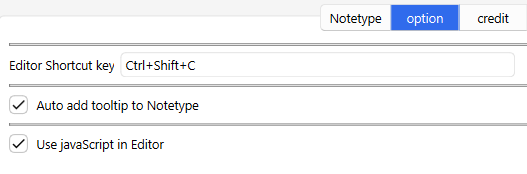
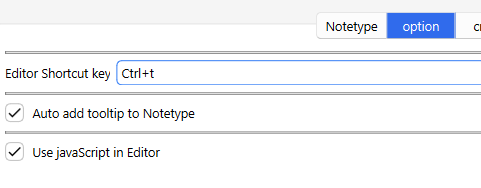
udpate

diff --git a/src/anki-tooltip.md b/src/anki-tooltip.md
@@ -1,16 +1,17 @@
 # 💬Anki Tooltip
 
-💬Anki Tooltip -  (Fixed by Shigeඞ)
+💬Anki Tooltip - Quick add Tooltip in the Editor (Fixed by Shigeඞ)
 
 <!-- **[AnkiWeb Page](https://ankiweb.net/shared/info/🟢) | Code : `🟢`** -->
-
 
 
 
 <!-- Customized -->
 [![banner_shigeyuki_2](https://github.com/shigeyukey/Pokemanki-Gold/assets/124401518/8408c164-e95c-4e40-98c1-393b03e04bcb)](https://www.reddit.com/user/Shige-yuki)
 
-This add-on is a fixed version for Anki25+ of the addon <a href="https://ankiweb.net/shared/info/1840818335" target="_blank">"Anki Tooltips"</a>, originally created by <a href="https://github.com/kleinerpirat" target="_blank">Matthias Metelka (kleinerpirat)</a> and credit goes to them.
+ Quick add Tooltip in the Editor (use tippy.js).
+
+This add-on is a Fixed and Enhanced version for Anki25+ of the addon <a href="https://ankiweb.net/shared/info/1840818335" target="_blank">"Anki Tooltips"</a>, originally created by <a href="https://github.com/kleinerpirat" target="_blank">Matthias Metelka (kleinerpirat)</a> and credit goes to them.
 
 
 ![AnkiTooltip](images/anki-tooltip/AnkiTooltip.gif)
@@ -23,11 +24,133 @@ This add-on is a fixed version for Anki25+ of the addon <a href="https://ankiweb
 #### Tooltip-Editor in Editor
 
 
+エディターボタン
+エディターでテキストを選択してからこのボタンを押すとツールチップを追加できます.
+追加したツールチップはエディターとレビュワーで表示されます.
+デフォルトのショートカットキーは"Ctrl+t"です.
+
+ツールチップエィデター
+ツールチップを追加したテキストをクリックするとツールチップエディターを開くことができます.
+この関数はEditorでのみ働きます.
+このウィンドウをドラッグすると位置を移動できます.
+このウィンドウの外側をクリックすると編集をキャンセルします.
 
 
+チェックボタン(右下, 緑)
 
+入力したテキストでツールチップのテキストを更新します.
+テキストを空にしてから押すとツールチップを削除します.
+ショートカットキーは"Alt+Enter"です.
+
+バツボタン(右上, 赤)
+
+ツールチップを削除してただのテキストにします.
+
+リストアボタン(左上, 紫)
+
+編集中のテキストを編集前のテキストに復元します.
+
+
+#### NoteType manager
 
 ![alt text](images/anki-tooltip/00.png)
 
+このadd-onはカードにツールチップを表示するためにノートタイプにCSSとJavaScriptを自動で追加します.
+
+このオプションでそれらを一括で手動で無効化, 有効化, またはカスタマイズできます.
+
+Enable Tooltip Notetype (Back)
+
+これを有効化するとツールチップを有効化します.
+無効化するとノートタイプに追加したツールチップのCSSとJavaScriptを削除します.
+
+
+Front Tooltip
+ツールチップはデフォルトでカードの答えのみに表示されます(Back).
+カードの質問にツールチップを表示したいときはこれを有効化する必要があります (Front).
+
+Prev-Shortcut, Next-Shortcut
+
+もしツールチップが複数ある場合, ショートカットキーでそれらを表示できます.
+このオプションでダブルクリックするとそのショートカットキーを変更できます.
+
+コンテキストメニュー
+
+これらのオプションは一括で変更できます.
+複数選択 -> 右クリック -> コンテキストメニュー
+
+
+#### Option
 
 ![alt text](images/anki-tooltip/01.png)
+
+* Editor Shortcut key
+
+エディターでツールチップを追加するためのショートカットキーを変更できます.
+デフォルトは"Ctrl+t"です.
+
+* Auto add tooltip to NoteType
+
+エディターでツールチップを追加したとき, 自動的にノートタイプにツールチップを表示するためのCSSとJavaScriptを追加します.
+このオプションはデフォルトで有効になっています.
+
+* Use Javascript in Editor
+
+このAdd-onはEditorでツールチップを表示して編集するためにいろいろなJavaScriptをエディターで実行しています.
+このオプションを無効化するとそれらのJavaScriptをほぼすべて無効化し, ツールチップを追加するためだけのシンプルなモードに変更します.
+
+
+
+
+#### Notes
+
+
+このadd-onはノートタイプを編集します. もし心配な場合はこれを使う前にすべてのデッキをバックアップし, 正常に動作するか確認することをお勧めします.
+
+ツールチップを追加したテキストは色や太字などのHTMLが削除されます.
+
+高度な共有されたデッキを使用している場合は干渉により問題が発生するかもしれません.
+もしその場合は調べてみるので私にカードテンプレートを送信してください.
+
+
+
+#### 技術的な説明
+
+TooltipのHTML
+
+
+![alt text](images/anki-tooltip/04.png)
+
+```
+<a data-tippy-content="Fixed by Shigeඞ">Anki Tooltip</a>
+```
+ツールチップを追加するとこのようなコードが生成されます.
+高度なユーザーの場合はこのHTMLを直接編集することでツールチップを追加や編集ができます.
+
+
+
+* Front Template, or Back Template
+
+
+これらがノートタイプ(カードテンプレート)に追加されるツールチップのコードです.
+
+```
+<script src="_anki-tooltips.js" data-prev-shortcut="Shift+Tab" data-next-shortcut="Tab"></script>
+```
+* Styling
+
+```
+@import url("_anki-tooltips.css");
+```
+
+簡単に言えばノートタイプのオプションと自動追加はこれらの1行のコードを追加または削除しています.
+Addonのオプションはこれらのノートテンプレートから読み取って表示している.
+なので高度なユーザーの場合は手動で直接これらのコードを追加または削除しても問題ありません.
+
+JavaScript and CSS
+
+_anki-tooltips.jsと_anki-tooltips.cssは自動的に生成されユーザーのメディアフォルダへ保存されます.
+たぶんモバイルでも働くはずです.
+
+
+
